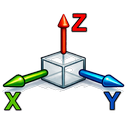
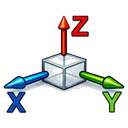
Fine tune local axes visualization

Changed region(s): [[0.0, 0.0938, 1.0, 0.9062]]

diff --git a/xrt/gui/xrtGlow/ogl/axes.py b/xrt/gui/xrtGlow/ogl/axes.py
@@ -726,7 +726,7 @@ class CoordinateBox():
             if isScreen:
                 bStart = np.column_stack(([1, 0, 0], [0, 0, 1], [0, -1, 0]))
                 x = np.matmul(moe_np, np.array([1, 0, 0, 0]))[:-1]
-                y = np.matmul(moe_np, np.array([0, -1, 0, 0]))[:-1]
+                y = np.matmul(moe_np, np.array([0, 0, 1, 0]))[:-1]
             else:
                 bStart = np.column_stack(([1, 0, 0], [0, 1, 0], [0, 0, 1]))
                 x = np.matmul(moe_np, np.array([1, 0, 0, 0]))[:-1]
